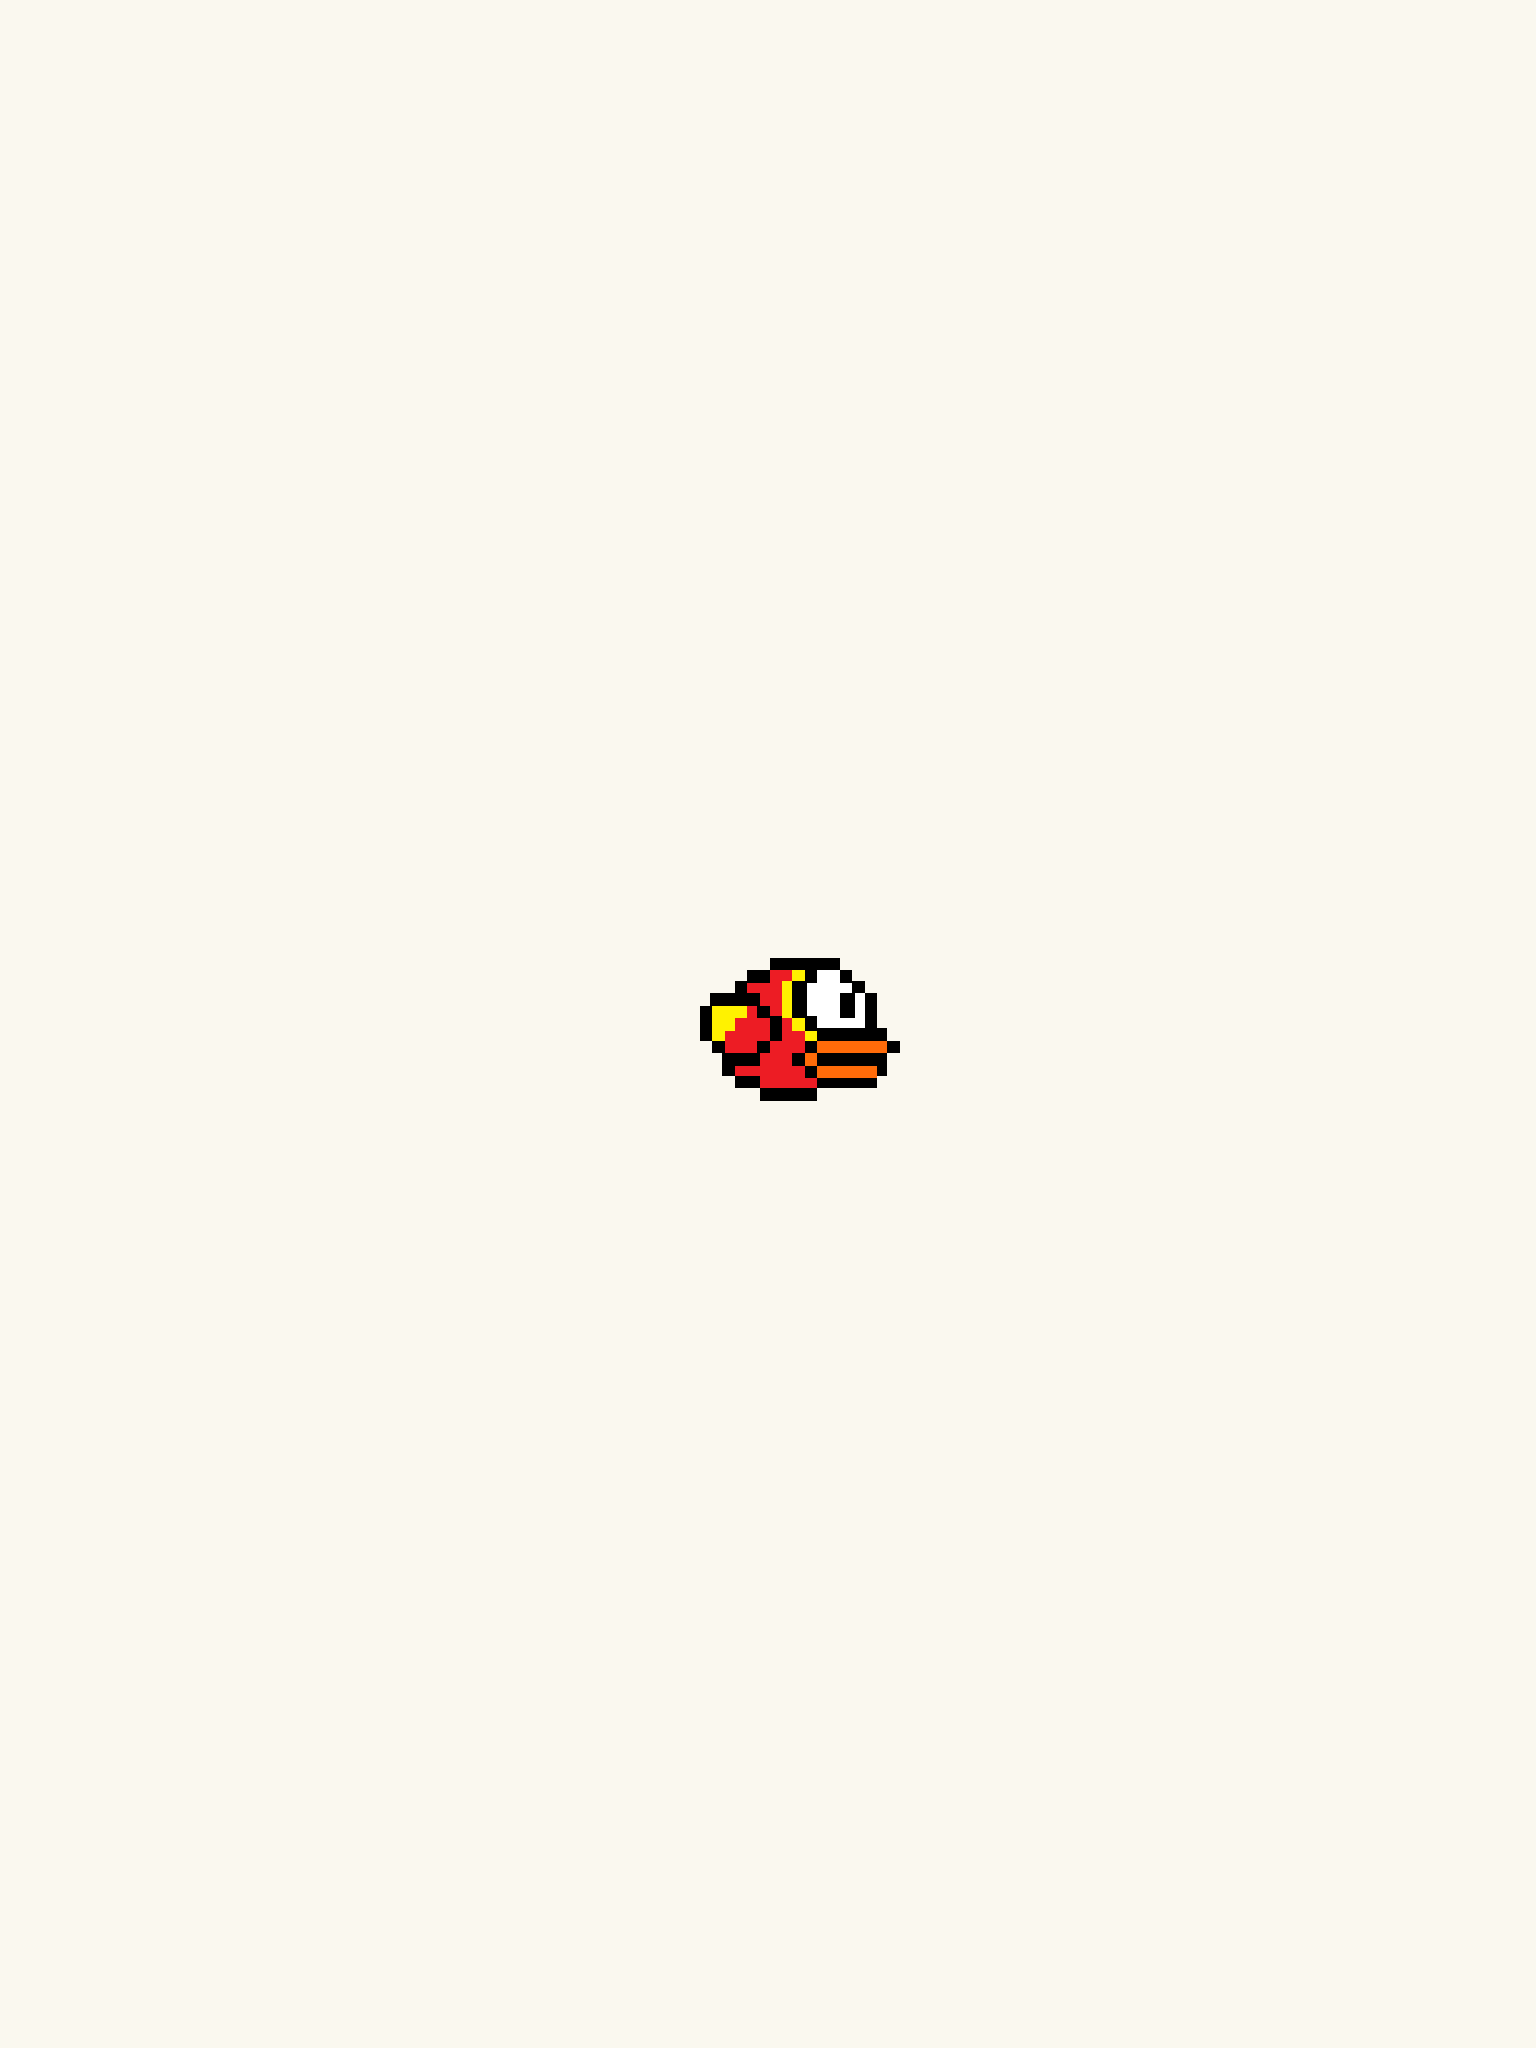
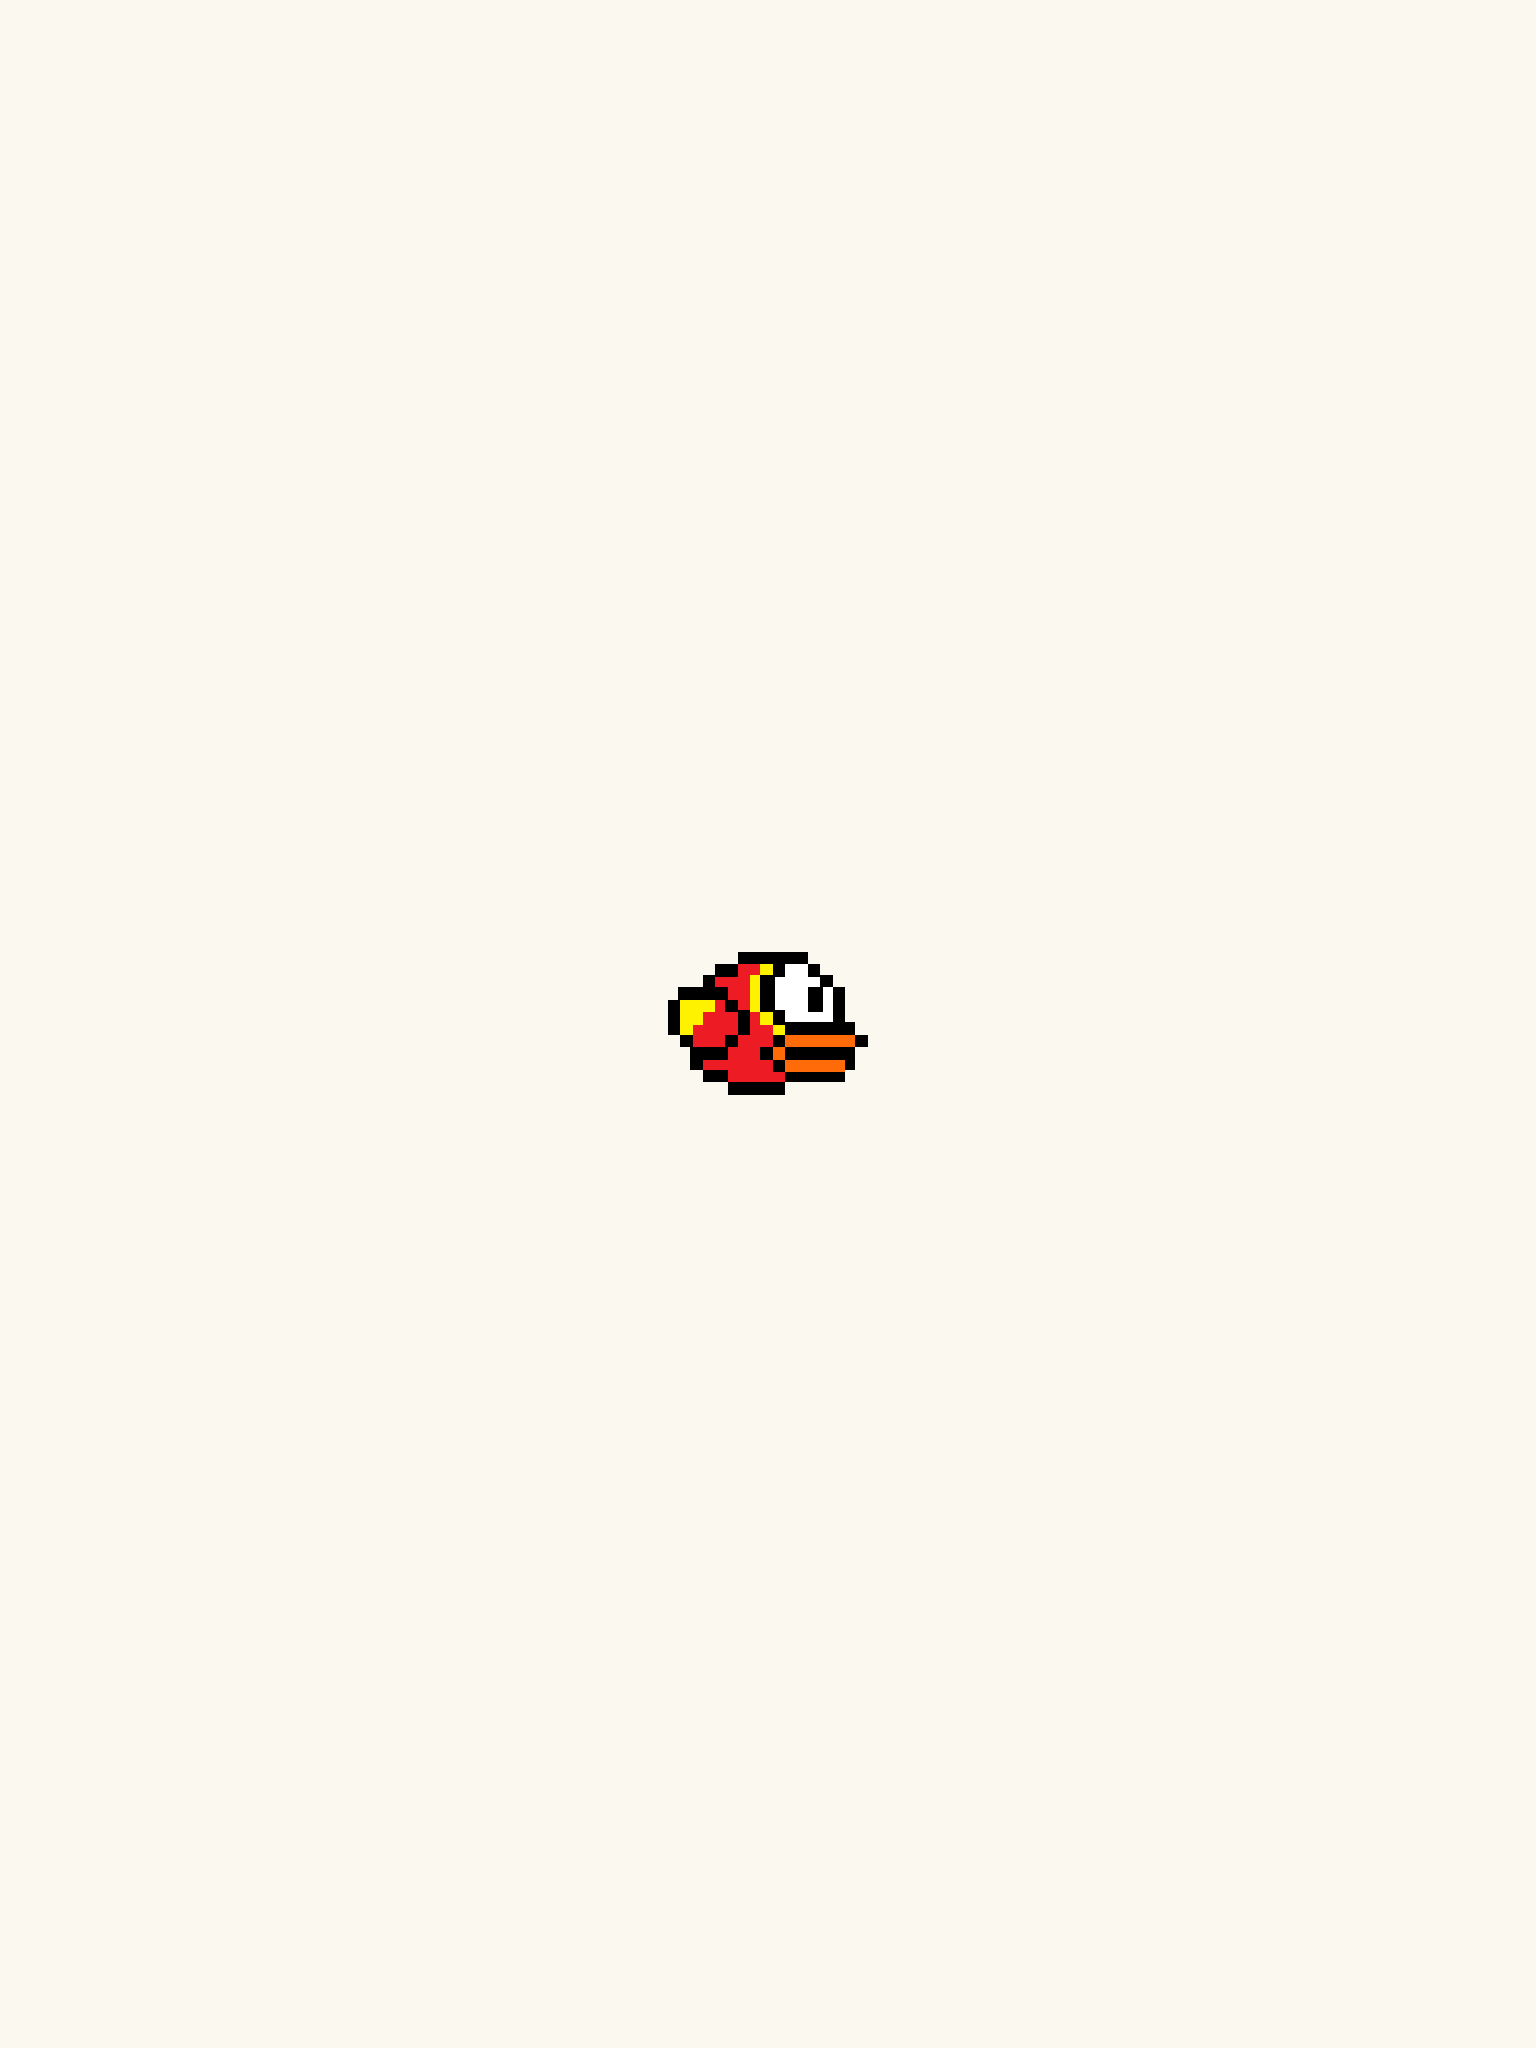
Added flappy on startup
Fixed splash screens

Changed region(s): [[0.4375, 0.4688, 0.5938, 0.5625]]

diff --git a/TwentyFourtyEight/TwentyFourtyEight/Controllers/MainController.cs b/TwentyFourtyEight/TwentyFourtyEight/Controllers/MainController.cs
@@ -60,6 +60,18 @@ namespace TwentyFourtyEight
 
                 _ad.Alpha = 0;
             };
+
+            #if FLAPPY
+            var image = UIImage.FromFile("flappy.png");
+            var imageView = new UIImageView(new RectangleF((View.Frame.Width - 100) / 2, (View.Frame.Height - 72) / 2, 100, 72))
+            {
+                Image = image,
+            };
+            _splash.AddSubview(imageView);
+            _splash.SendSubviewToBack(imageView);
+
+            UIView.Animate(0.5, 0, UIViewAnimationOptions.CurveEaseInOut, () => imageView.Alpha = 0, null);
+            #endif
         }
 
         public async override void ViewWillAppear(bool animated)
